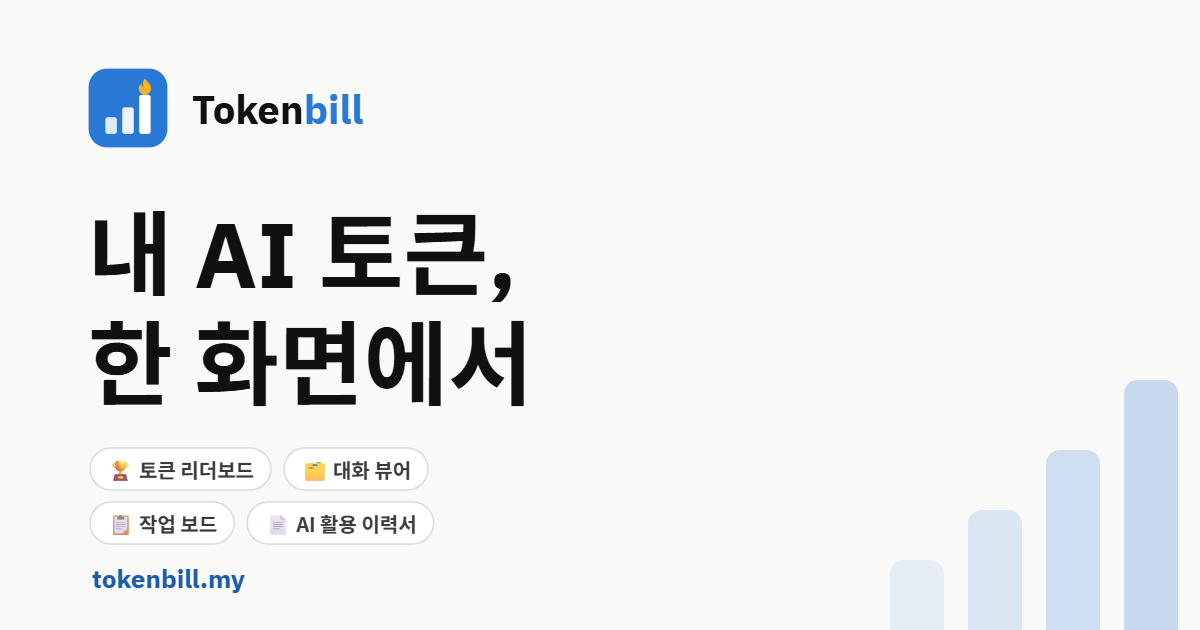
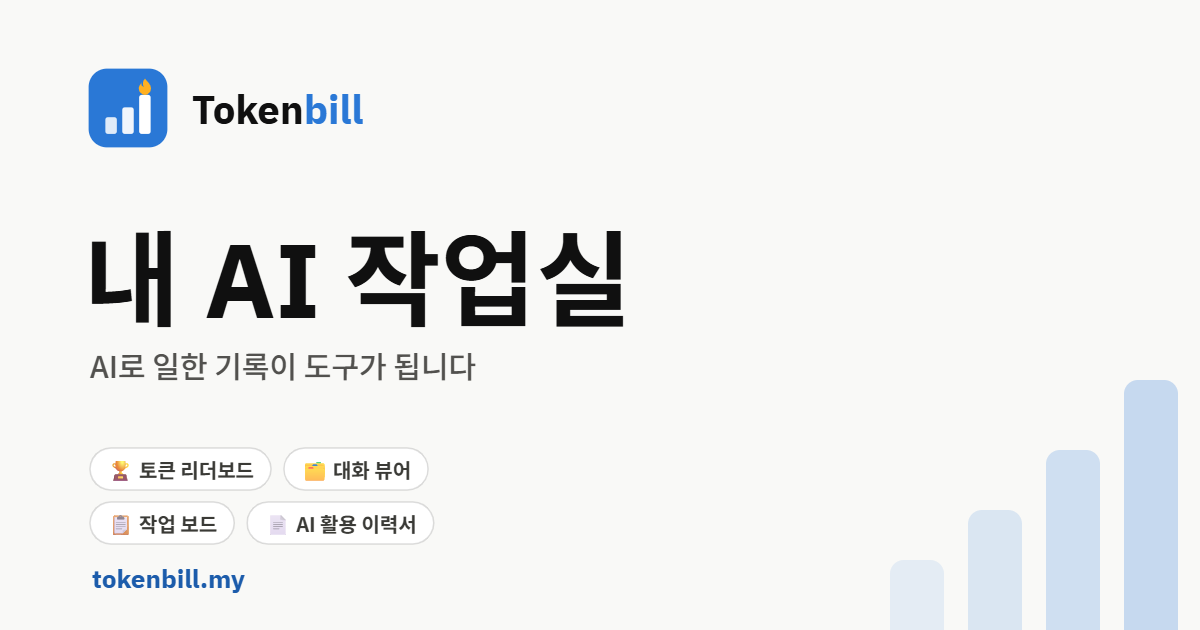
대표 문구를 '내 AI 작업실'로 — AI로 일한 기록이 도구가 되는 서비스
- 로그인 카드·헤더 태그, 페이지 제목, 메타/OG 설명(한/영, ?lang=en 포함)
- OG 이미지: '내 AI 작업실' + 'AI로 일한 기록이 도구가 됩니다' + 4기능 배지
- README 제목, npm 설명 (npm은 다음 publish 때 반영)

Changed region(s): [[0.0617, 0.3317, 0.5242, 0.6635]]

diff --git a/static/index.html b/static/index.html
@@ -3,10 +3,10 @@
 <head>
 <meta charset="utf-8">
 <meta name="viewport" content="width=device-width, initial-scale=1">
-<title>Tokenbill — 내 AI 토큰 대시보드</title>
-<meta name="description" content="내 AI 토큰, 한 화면에서. Claude Code·Codex·Gemini 사용량으로 겨루는 리더보드, 로컬 대화 뷰어·작업 보드, 로그가 증명하는 AI 이력서까지.">
-<meta property="og:title" content="Tokenbill — 내 AI 토큰 대시보드">
-<meta property="og:description" content="내 AI 토큰, 한 화면에서. Claude Code·Codex·Gemini 사용량으로 겨루는 리더보드, 로컬 대화 뷰어·작업 보드, 로그가 증명하는 AI 이력서까지.">
+<title>Tokenbill — 내 AI 작업실</title>
+<meta name="description" content="내 AI 작업실. Claude Code·Codex·Gemini 사용량으로 겨루는 리더보드, 로컬 대화 뷰어·작업 보드, 로그가 증명하는 AI 이력서까지 — AI로 일한 기록이 도구가 됩니다.">
+<meta property="og:title" content="Tokenbill — 내 AI 작업실">
+<meta property="og:description" content="내 AI 작업실. Claude Code·Codex·Gemini 사용량으로 겨루는 리더보드, 로컬 대화 뷰어·작업 보드, 로그가 증명하는 AI 이력서까지 — AI로 일한 기록이 도구가 됩니다.">
 <meta property="og:url" content="https://tokenbill.my">
 <meta property="og:type" content="website">
 <meta property="og:image" content="https://tokenbill.my/static/og.png">
@@ -229,7 +229,7 @@
   <div class="auth-wrap">
   <div class="auth-card">
     <h1>Token<span class="won">bill</span></h1>
-    <p class="tag">내 AI 토큰, 한 화면에서</p>
+    <p class="tag">내 AI 작업실</p>
     <div class="feat-list">
       <div>🏆 <b>리더보드</b> <span>— 이번 달 얼마나 태웠나</span></div>
       <div>🗂 <b>대화 뷰어</b> <span>— 무슨 일을 했었나</span> <span class="loc">local</span></div>
@@ -267,7 +267,7 @@
   <header class="top">
     <div class="brand">
       <h1>Token<span class="won">bill</span></h1>
-      <span class="tag">내 AI 토큰, 한 화면에서</span>
+      <span class="tag">내 AI 작업실</span>
     </div>
     <div class="hdr-ctls">
       <details class="menu">
@@ -640,7 +640,7 @@
 
   // 정적 HTML 문구 사전 — localize()가 텍스트 노드 단위로 치환 (한국어 원문이 소스)
   var EN_TEXT = {
-    "내 AI 토큰, 한 화면에서": "Your AI tokens, on one screen",
+    "내 AI 작업실": "Your AI workshop",
     "로그인": "Log in", "회원가입": "Sign up", "또는": "or",
     "🏆 이번 달 토큰 리더보드": "🏆 This Month's Token Leaderboard",
     "지금 가입하고 순위에 도전해 보세요!": "Sign up now and claim your rank!",
@@ -740,7 +740,7 @@
     'Disconnecting deletes the key and all collected data.</p>';
 
   function localize() {
-    document.title = tr("Tokenbill — 내 AI 토큰 대시보드", "Tokenbill — Your AI Token Dashboard");
+    document.title = tr("Tokenbill — 내 AI 작업실", "Tokenbill — Your AI Workshop");
     $("langBtn").textContent = tr("🌐 EN", "🌐 한국어");
     $("langBtnAuth").textContent = tr("🌐 English", "🌐 한국어로 보기");
     if (LANG !== "en") return;

diff --git a/app/main.py b/app/main.py
@@ -851,9 +851,9 @@ app.mount("/static", StaticFiles(directory="static"), name="static")
 # ?lang=en 공유 링크는 OG 미리보기(크롤러는 JS 미실행)도 영문이어야 한다
 _META_EN = {
     '<html lang="ko">': '<html lang="en">',
-    "Tokenbill — 내 AI 토큰 대시보드": "Tokenbill — Your AI Token Dashboard",
-    "내 AI 토큰, 한 화면에서. Claude Code·Codex·Gemini 사용량으로 겨루는 리더보드, 로컬 대화 뷰어·작업 보드, 로그가 증명하는 AI 이력서까지.":
-        "Your AI tokens, on one screen. A leaderboard for Claude Code · Codex · Gemini usage, a local transcript viewer and task board, and an AI résumé proven by your work logs.",
+    "Tokenbill — 내 AI 작업실": "Tokenbill — Your AI Workshop",
+    "내 AI 작업실. Claude Code·Codex·Gemini 사용량으로 겨루는 리더보드, 로컬 대화 뷰어·작업 보드, 로그가 증명하는 AI 이력서까지 — AI로 일한 기록이 도구가 됩니다.":
+        "Your AI workshop. A leaderboard for Claude Code · Codex · Gemini usage, a local transcript viewer and task board, and an AI résumé proven by your work logs — your AI work record, turned into tools.",
 }
 
 

diff --git a/README.md b/README.md
@@ -1,4 +1,4 @@
-# Tokenbill (토큰빌) — 내 AI 토큰, 한 화면에서
+# Tokenbill (토큰빌) — 내 AI 작업실
 
 AI는 쓰는 것으로 끝. 기록은 Tokenbill이 쌓고, 쌓인 기록은 실력이 됩니다.
 
